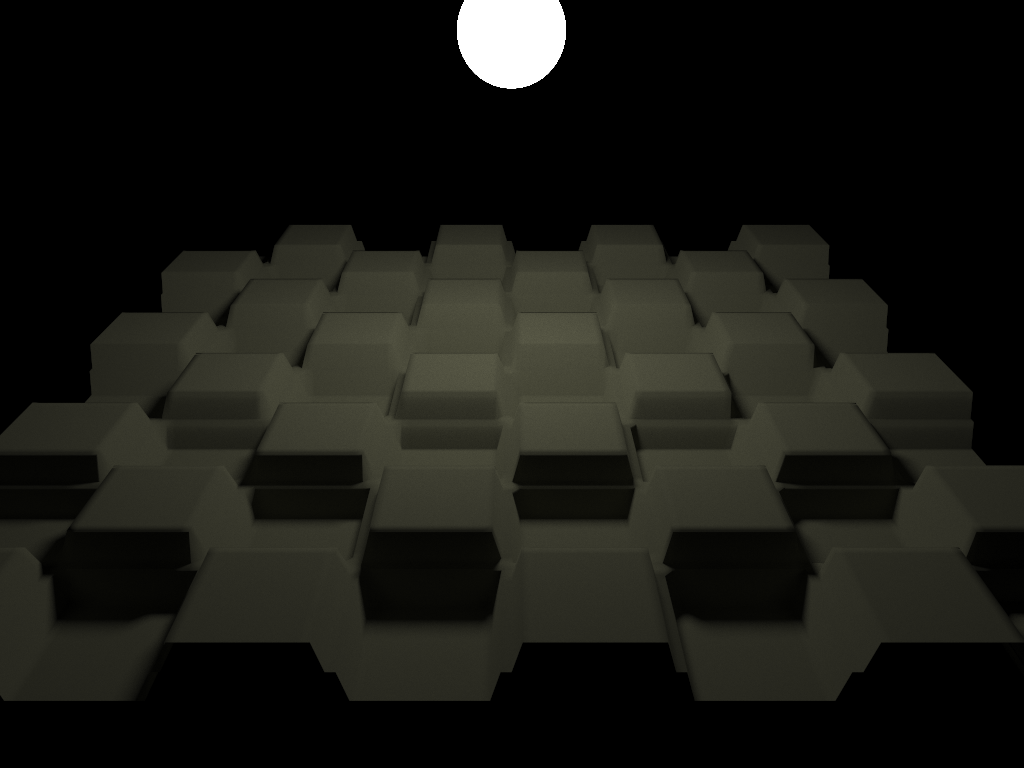
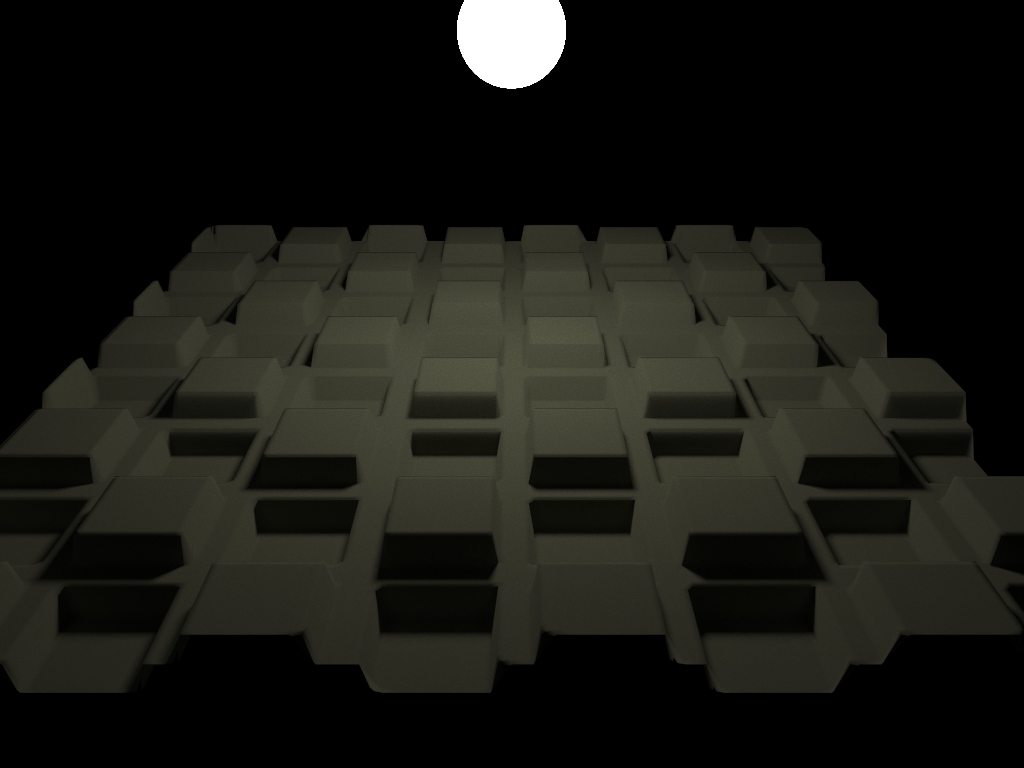
update displacement tests

diff --git a/main/tests_mtl4.cpp b/main/tests_mtl4.cpp
@@ -2154,7 +2154,7 @@ bool MTL_TESTS::test_161_simple_displacement()
   // Render settings
   /////////////////////////////////////////////////////////////////////////////////////////////////////////////////////////////////////////////////////
 
-  HRRenderRef renderRef = CreateBasicTestRenderPT(CURR_RENDER_DEVICE, 1024, 1024, 256, 512);
+  HRRenderRef renderRef = CreateBasicTestRenderPT(CURR_RENDER_DEVICE, 1024, 1024, 256, 1024);
 
 
   /////////////////////////////////////////////////////////////////////////////////////////////////////////////////////////////////////////////////////
@@ -2254,7 +2254,7 @@ bool MTL_TESTS::test_164_simple_displacement_proctex()
 
   //HRTextureNodeRef texChecker = hrTexture2DCreateFromFile(L"data/textures/chess_white.bmp");
   //HRTextureNodeRef tex = hrTexture2DCreateFromFile(L"data/textures/ornament.jpg");
-  HRTextureNodeRef tex = hrTexture2DCreateFromProcLDR(&procTexCheckerLDR, (void*)(&rep), sizeof(int), 64, 64);
+  HRTextureNodeRef tex = hrTexture2DCreateFromProcLDR(&procTexCheckerLDR, (void*)(&rep), sizeof(int), 32, 32);
 
   hrMaterialOpen(mat1, HR_WRITE_DISCARD);
   {
@@ -2270,10 +2270,10 @@ bool MTL_TESTS::test_164_simple_displacement_proctex()
     heightNode.append_attribute(L"amount").set_value(5.5f);
 
     auto texNode = hrTextureBind(tex, heightNode);
-    displacement.append_attribute(L"subdivs").set_value(0);
+    displacement.append_attribute(L"subdivs").set_value(2);
     texNode.append_attribute(L"matrix");
-    float samplerMatrix[16] = { 1, 0, 0, 0,
-                                0, 1, 0, 0,
+    float samplerMatrix[16] = { 1, 0, 0, -0.01f,
+                                0, 1, 0, -0.01f,
                                 0, 0, 1, 0,
                                 0, 0, 0, 1 };
 
@@ -2317,7 +2317,7 @@ bool MTL_TESTS::test_164_simple_displacement_proctex()
   /////////////////////////////////////////////////////////////////////////////////////////////////////////////////////////////////////////////////////
   // Meshes
   /////////////////////////////////////////////////////////////////////////////////////////////////////////////////////////////////////////////////////
-  HRMeshRef tess = CreateTriStrip(128, 128, 100);//hrMeshCreateFromFileDL(L"data/meshes/tesselated_plane.vsgf");//
+  HRMeshRef tess = CreateTriStrip(64, 64, 100);//hrMeshCreateFromFileDL(L"data/meshes/tesselated_plane.vsgf");//
 
   hrMeshOpen(tess, HR_TRIANGLE_IND3, HR_OPEN_EXISTING);
   {
@@ -2486,11 +2486,11 @@ bool MTL_TESTS::test_165_simple_displacement_mesh()
   HRMaterialRef mat2 = hrMaterialCreate(L"mat2");
   HRMaterialRef mat3 = hrMaterialCreate(L"mat3");
 
-  int rep = 4;
+  int rep = 2;
 
   //HRTextureNodeRef texChecker = hrTexture2DCreateFromFile(L"data/textures/chess_white.bmp");
-  //HRTextureNodeRef tex = hrTexture2DCreateFromFile(L"data/textures/ornament.jpg");
-  HRTextureNodeRef tex = hrTexture2DCreateFromProcLDR(&procTexCheckerLDR, (void*)(&rep), sizeof(int), 64, 64);
+  HRTextureNodeRef tex = hrTexture2DCreateFromFile(L"data/textures/blur_pattern.bmp");
+  //HRTextureNodeRef tex = hrTexture2DCreateFromProcLDR(&procTexCheckerLDR, (void*)(&rep), sizeof(int), 256, 256);
 
   hrMaterialOpen(mat1, HR_WRITE_DISCARD);
   {
@@ -2512,13 +2512,14 @@ bool MTL_TESTS::test_165_simple_displacement_mesh()
     auto heightNode   = displacement.append_child(L"height_map");
 
     displacement.append_attribute(L"type").set_value(L"true_displacement");
-    heightNode.append_attribute(L"amount").set_value(0.05f);
+    heightNode.append_attribute(L"amount").set_value(0.025f);
+    displacement.append_attribute(L"subdivs").set_value(0);
 
     auto texNode = hrTextureBind(tex, heightNode);
 
     texNode.append_attribute(L"matrix");
-    float samplerMatrix[16] = { 1, 0, 0, 0,
-                                0, 1, 0, 0,
+    float samplerMatrix[16] = { 2, 0, 0, 0,
+                                0, 2, 0, 0,
                                 0, 0, 1, 0,
                                 0, 0, 0, 1 };
 
@@ -2634,7 +2635,7 @@ bool MTL_TESTS::test_165_simple_displacement_mesh()
   // Render settings
   /////////////////////////////////////////////////////////////////////////////////////////////////////////////////////////////////////////////////////
 
-  HRRenderRef renderRef = CreateBasicTestRenderPT(CURR_RENDER_DEVICE, 1024, 1024, 256, 256);
+  HRRenderRef renderRef = CreateBasicTestRenderPT(CURR_RENDER_DEVICE, 1024, 1024, 256, 512);
 
 
   /////////////////////////////////////////////////////////////////////////////////////////////////////////////////////////////////////////////////////
@@ -2656,8 +2657,8 @@ bool MTL_TESTS::test_165_simple_displacement_mesh()
   mTranslate.identity();
   mRes.identity();
 
-  mTranslate = translate4x4(float3(0.0f, 30.0f, 2.0f));
-  mScale = scale4x4(float3(5.01f, 5.01f, 5.01f));
+  mTranslate = translate4x4(float3(0.0f, 17.0f, 2.0f));
+  mScale = scale4x4(float3(15.01f, 15.01f, 15.01f));
   mRes = mul(mTranslate, mScale);
 
   hrMeshInstance(scnRef, tess, mRes.L());
@@ -2672,7 +2673,7 @@ bool MTL_TESTS::test_165_simple_displacement_mesh()
 
   hrLightInstance(scnRef, sky, mRes.L());
 
-  mTranslate = translate4x4(float3(0, 40.0f, 0.0));
+  mTranslate = translate4x4(float3(0, 50.0f, 0.0));
   hrLightInstance(scnRef, sphereLight, mTranslate.L());
 
   ///////////
@@ -2985,7 +2986,7 @@ bool MTL_TESTS::test_167_subdiv()
     auto heightNode   = displacement.append_child(L"height_map");
 
     displacement.append_attribute(L"type").set_value(L"true_displacement");
-    displacement.append_attribute(L"subdivs").set_value(4);
+    displacement.append_attribute(L"subdivs").set_value(1);
     heightNode.append_attribute(L"amount").set_value(15.1f);
 
     auto texNode = hrTextureBind(tex1, heightNode);
@@ -3026,7 +3027,7 @@ bool MTL_TESTS::test_167_subdiv()
     auto heightNode   = displacement.append_child(L"height_map");
 
     displacement.append_attribute(L"type").set_value(L"true_displacement");
-    displacement.append_attribute(L"subdivs").set_value(5);
+    displacement.append_attribute(L"subdivs").set_value(1);
     heightNode.append_attribute(L"amount").set_value(15.1f);
 
     auto texNode = hrTextureBind(tex2, heightNode);
@@ -3067,7 +3068,7 @@ bool MTL_TESTS::test_167_subdiv()
     auto heightNode   = displacement.append_child(L"height_map");
 
     displacement.append_attribute(L"type").set_value(L"true_displacement");
-    displacement.append_attribute(L"subdivs").set_value(6);
+    displacement.append_attribute(L"subdivs").set_value(1);
     heightNode.append_attribute(L"amount").set_value(15.1f);
 
     auto texNode = hrTextureBind(tex3, heightNode);
